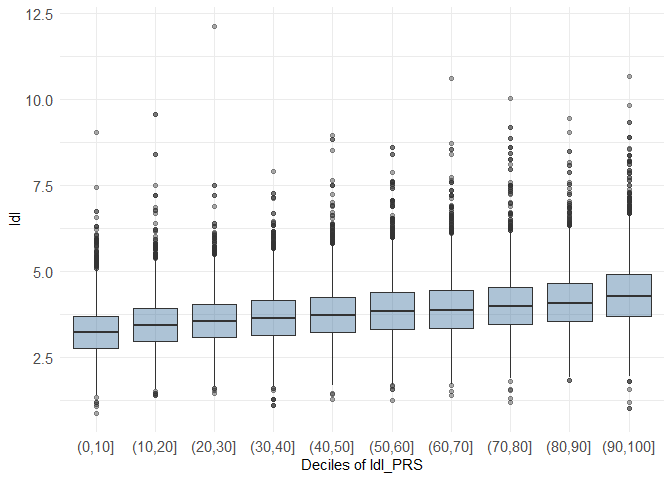
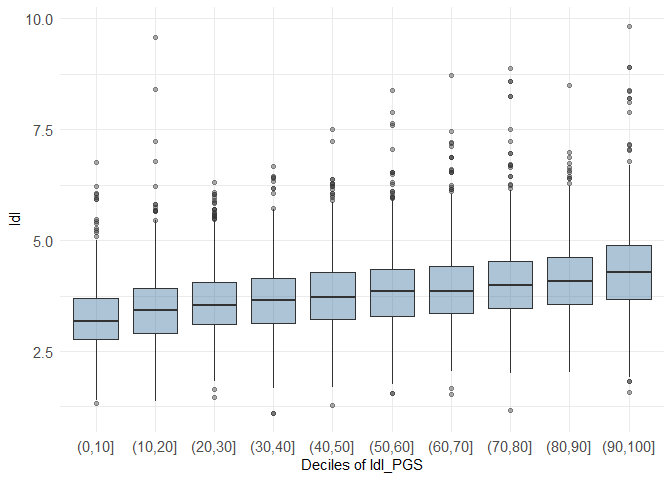
Update README

diff --git a/README.md b/README.md
@@ -9,8 +9,9 @@
 tag](https://img.shields.io/github/v/tag/VP-biostat/comorbidPRS.svg?label=latest%20version)](https://github.com/VP-biostat/comorbidPRS)
 <!-- badges: end -->
 
-comorbidPRS is a tool for analysing an already computed PRS distribution
-to investigate shared aetiology in multiple conditions.
+comorbidPRS is a tool for analysing an already computed Polygenic Score
+(PGS, also named PRS/GRS for binary outcomes) distribution to
+investigate shared genetic aetiology in multiple conditions.
 
 comorbidPRS is under GPL-3 license, and is freely available for
 download.
@@ -51,20 +52,20 @@ library(comorbidPRS)
 dataset <- comorbidData
 # NOTE: The dataset must have at least 3 different columns:
 # - an ID column (the first one)
-# - a PRS column (must be numeric, by default it is the column named "SCORESUM" or the second column if "SCORESUM" is not present)
+# - a PGS column (must be numeric, by default it is the column named "SCORESUM" or the second column if "SCORESUM" is not present)
 # - a Phenotype column, can be factors, numbers or characters
 
-# do an association of one PRS with one Phenotype
-result_1 <- assoc(dataset, prs_col = "t2d_PRS", phenotype_col = "t2d")
+# do an association of one PGS with one Phenotype
+result_1 <- assoc(dataset, prs_col = "t2d_PGS", phenotype_col = "t2d")
 ```
 
-| PRS     | Phenotype | Phenotype_type | Statistical_method         | Covar | N_cases | N_controls |     N |   Effect | SE  | lower_CI | upper_CI | P_value |
+| PGS     | Phenotype | Phenotype_type | Statistical_method         | Covar | N_cases | N_controls |     N |   Effect | SE  | lower_CI | upper_CI | P_value |
 |:--------|:----------|:---------------|:---------------------------|:------|--------:|-----------:|------:|---------:|:----|---------:|---------:|--------:|
-| t2d_PRS | t2d       | Cases/Controls | Binary logistic regression | NA    |    2845 |      36535 | 39380 | 1.784127 | NA  | 1.714658 |  1.85641 |       0 |
+| t2d_PGS | t2d       | Cases/Controls | Binary logistic regression | NA    |     730 |       9270 | 10000 | 1.688258 | NA  | 1.561821 | 1.824931 |       0 |
 
 ``` r
 # do multiple associations
-assoc <- expand.grid(c("t2d_PRS", "ldl_PRS"), c("ethnicity","brc","t2d","log_ldl","sbp_cat"))
+assoc <- expand.grid(c("t2d_PGS", "ldl_PGS"), c("ethnicity","brc","t2d","log_ldl","sbp_cat"))
 result_2 <- multiassoc(df = dataset, assoc_table = assoc, covar = c("age", "sex", "gen_array"))
 #> Warning in phenotype_type(df = df, phenotype_col = phenotype_col): Phenotype
 #> column log_ldl is continuous and not normal, please normalise prior association
@@ -73,27 +74,27 @@ result_2 <- multiassoc(df = dataset, assoc_table = assoc, covar = c("age", "sex"
 #> column log_ldl is continuous and not normal, please normalise prior association
 ```
 
-|     | PRS     | Phenotype        | Phenotype_type      | Statistical_method              | Covar             | N_cases | N_controls |     N |    Effect |        SE |  lower_CI |  upper_CI |   P_value |
+|     | PGS     | Phenotype        | Phenotype_type      | Statistical_method              | Covar             | N_cases | N_controls |     N |    Effect |        SE |  lower_CI |  upper_CI |   P_value |
 |:----|:--------|:-----------------|:--------------------|:--------------------------------|:------------------|--------:|-----------:|------:|----------:|----------:|----------:|----------:|----------:|
-| 2   | t2d_PRS | ethnicity 1 \~ 2 | Categorical         | Multinomial logistic regression | age+sex+gen_array |    8526 |      24922 | 33448 | 0.9843528 |        NA | 0.9604383 | 1.0088627 | 0.2088171 |
-| 3   | t2d_PRS | ethnicity 1 \~ 3 | Categorical         | Multinomial logistic regression | age+sex+gen_array |    4779 |      24922 | 29701 | 1.0161173 |        NA | 0.9604383 | 1.0088627 | 0.3114462 |
-| 4   | t2d_PRS | ethnicity 1 \~ 4 | Categorical         | Multinomial logistic regression | age+sex+gen_array |    1153 |      24922 | 26075 | 1.0026245 |        NA | 0.9604383 | 1.0088627 | 0.9306895 |
-| 21  | ldl_PRS | ethnicity 1 \~ 2 | Categorical         | Multinomial logistic regression | age+sex+gen_array |    8526 |      24922 | 33448 | 0.9925562 |        NA | 0.9684554 | 1.0172569 | 0.5513399 |
-| 31  | ldl_PRS | ethnicity 1 \~ 3 | Categorical         | Multinomial logistic regression | age+sex+gen_array |    4779 |      24922 | 29701 | 1.0152907 |        NA | 0.9684554 | 1.0172569 | 0.3370977 |
-| 41  | ldl_PRS | ethnicity 1 \~ 4 | Categorical         | Multinomial logistic regression | age+sex+gen_array |    1153 |      24922 | 26075 | 1.0128078 |        NA | 0.9684554 | 1.0172569 | 0.6730281 |
-| 1   | t2d_PRS | brc              | Cases/Controls      | Binary logistic regression      | age+sex+gen_array |    1601 |      19867 | 21468 | 1.0348337 |        NA | 0.9832930 | 1.0890761 | 0.1889709 |
-| 11  | ldl_PRS | brc              | Cases/Controls      | Binary logistic regression      | age+sex+gen_array |    1601 |      19867 | 21468 | 1.0119061 |        NA | 0.9615206 | 1.0649319 | 0.6496868 |
-| 12  | t2d_PRS | t2d              | Cases/Controls      | Binary logistic regression      | age+sex+gen_array |    2845 |      36535 | 39380 | 1.8286147 |        NA | 1.7557926 | 1.9044570 | 0.0000000 |
-| 13  | ldl_PRS | t2d              | Cases/Controls      | Binary logistic regression      | age+sex+gen_array |    2845 |      36535 | 39380 | 0.9968686 |        NA | 0.9591734 | 1.0360453 | 0.8732979 |
-| 14  | t2d_PRS | log_ldl          | Continuous          | Linear regression               | age+sex+gen_array |      NA |         NA | 39380 | 0.0036203 | 0.0011515 | 0.0013633 | 0.0058773 | 0.0016686 |
-| 15  | ldl_PRS | log_ldl          | Continuous          | Linear regression               | age+sex+gen_array |      NA |         NA | 39380 | 0.0843551 | 0.0010703 | 0.0822574 | 0.0864529 | 0.0000000 |
-| 16  | t2d_PRS | sbp_cat          | Ordered Categorical | Ordinal logistic regression     | age+sex+gen_array |      NA |         NA | 39380 | 1.0757027 |        NA | 1.0730560 | 1.0783558 | 0.0000000 |
-| 17  | ldl_PRS | sbp_cat          | Ordered Categorical | Ordinal logistic regression     | age+sex+gen_array |      NA |         NA | 39380 | 1.0754824 |        NA | 1.0728378 | 1.0781336 | 0.0000000 |
+| 2   | t2d_PGS | ethnicity 1 \~ 2 | Categorical         | Multinomial logistic regression | age+sex+gen_array |    2142 |       6381 |  8523 | 0.9814174 |        NA | 0.9345150 | 1.0306739 | 0.4528020 |
+| 3   | t2d_PGS | ethnicity 1 \~ 3 | Categorical         | Multinomial logistic regression | age+sex+gen_array |    1205 |       6381 |  7586 | 1.0178971 |        NA | 0.9570931 | 1.0825640 | 0.5724292 |
+| 4   | t2d_PGS | ethnicity 1 \~ 4 | Categorical         | Multinomial logistic regression | age+sex+gen_array |     272 |       6381 |  6653 | 0.9434640 |        NA | 0.8355980 | 1.0652542 | 0.3474694 |
+| 21  | ldl_PGS | ethnicity 1 \~ 2 | Categorical         | Multinomial logistic regression | age+sex+gen_array |    2142 |       6381 |  8523 | 0.9925623 |        NA | 0.9451678 | 1.0423334 | 0.7648927 |
+| 31  | ldl_PGS | ethnicity 1 \~ 3 | Categorical         | Multinomial logistic regression | age+sex+gen_array |    1205 |       6381 |  7586 | 1.0083869 |        NA | 0.9481215 | 1.0724830 | 0.7905175 |
+| 41  | ldl_PGS | ethnicity 1 \~ 4 | Categorical         | Multinomial logistic regression | age+sex+gen_array |     272 |       6381 |  6653 | 0.9760204 |        NA | 0.8647226 | 1.1016433 | 0.6943783 |
+| 1   | t2d_PGS | brc              | Cases/Controls      | Binary logistic regression      | age+sex+gen_array |     402 |       5041 |  5443 | 1.0061678 |        NA | 0.9087543 | 1.1140235 | 0.9057882 |
+| 11  | ldl_PGS | brc              | Cases/Controls      | Binary logistic regression      | age+sex+gen_array |     402 |       5041 |  5443 | 1.1037106 |        NA | 0.9956370 | 1.2235153 | 0.0605407 |
+| 12  | t2d_PGS | t2d              | Cases/Controls      | Binary logistic regression      | age+sex+gen_array |     730 |       9270 | 10000 | 1.7359738 |        NA | 1.6029867 | 1.8799938 | 0.0000000 |
+| 13  | ldl_PGS | t2d              | Cases/Controls      | Binary logistic regression      | age+sex+gen_array |     730 |       9270 | 10000 | 0.9823272 |        NA | 0.9102411 | 1.0601223 | 0.6465580 |
+| 14  | t2d_PGS | log_ldl          | Continuous          | Linear regression               | age+sex+gen_array |      NA |         NA | 10000 | 0.0059961 | 0.0022747 | 0.0015378 | 0.0104544 | 0.0084010 |
+| 15  | ldl_PGS | log_ldl          | Continuous          | Linear regression               | age+sex+gen_array |      NA |         NA | 10000 | 0.0828545 | 0.0021183 | 0.0787027 | 0.0870064 | 0.0000000 |
+| 16  | t2d_PGS | sbp_cat          | Ordered Categorical | Ordinal logistic regression     | age+sex+gen_array |      NA |         NA | 10000 | 1.0757093 |        NA | 1.0705815 | 1.0808617 | 0.0000000 |
+| 17  | ldl_PGS | sbp_cat          | Ordered Categorical | Ordinal logistic regression     | age+sex+gen_array |      NA |         NA | 10000 | 1.0754564 |        NA | 1.0703336 | 1.0806038 | 0.0000000 |
 
 ### Examples of plot
 
 ``` r
-densityplot(dataset, prs_col = "ldl_PRS", phenotype_col = "sbp_cat")
+densityplot(dataset, prs_col = "ldl_PGS", phenotype_col = "sbp_cat")
 ```
 
 <img src="man/figures/README-densityplot-1.png" width="100%" />
@@ -114,7 +115,10 @@ assoplot$discrete_phenotype
 score_table should have the assoc() output format
 
 ``` r
-centileplot(dataset, prs_col = "brc_PRS", phenotype_col = "brc")
+centileplot(dataset, prs_col = "brc_PGS", phenotype_col = "brc")
+#> Warning in centileplot(dataset, prs_col = "brc_PGS", phenotype_col = "brc"):
+#> The dataset has less than 10,000 individuals, centiles plot may not look good!
+#> Use the argument decile = T to adapt to small datasets
 ```
 
 <img src="man/figures/README-centileplot-1.png" width="100%" />
@@ -124,14 +128,14 @@ plot:
 
 ``` r
 library(ggplot2)
-centileplot(dataset, prs_col = "t2d_PRS", phenotype_col = "t2d") + 
+centileplot(dataset, prs_col = "t2d_PGS", phenotype_col = "t2d") + 
   scale_color_gradient(low = "green", high = "red")
 ```
 
 <img src="man/figures/README-centileplot-and-ggplot-1.png" width="100%" />
 
 ``` r
-decileboxplot(dataset, prs_col = "ldl_PRS", phenotype_col = "ldl")
+decileboxplot(dataset, prs_col = "ldl_PGS", phenotype_col = "ldl")
 ```
 
 <img src="man/figures/README-decileplot-1.png" width="100%" />
@@ -143,6 +147,6 @@ manuscript:
 
 <p>
 Pascat V (????). <em>comorbidPRS: Assessing the shared predisposition
-between Phenotypes using Polygenic Scores (PRS)</em>. R package version
-0.2.9000.
+between Phenotypes using Polygenic Scores (PGS, or PRS/GRS for binary
+outcomes)</em>. R package version 0.3.9000.
 </p>
